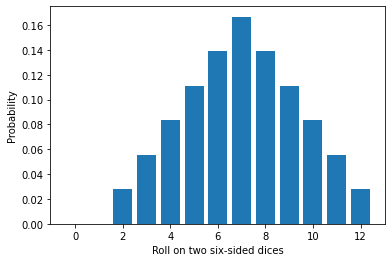
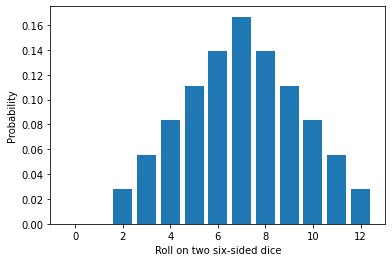
Update documentation

Changed region(s): [[0.398, 0.916, 0.7347, 0.9771]]

diff --git a/searchindex.js b/searchindex.js
@@ -1,1 +1,1 @@
-Search.setIndex({docnames:["README","chapters/bond_percolation","chapters/branching_process","chapters/index","chapters/multivariate_pgf","chapters/numerical_inversion","chapters/pgf_properties"],envversion:{"sphinx.domains.c":2,"sphinx.domains.changeset":1,"sphinx.domains.citation":1,"sphinx.domains.cpp":5,"sphinx.domains.index":1,"sphinx.domains.javascript":2,"sphinx.domains.math":2,"sphinx.domains.python":3,"sphinx.domains.rst":2,"sphinx.domains.std":2,"sphinx.ext.intersphinx":1,"sphinxcontrib.bibtex":9,sphinx:56},filenames:["README.md","chapters/bond_percolation.ipynb","chapters/branching_process.ipynb","chapters/index.md","chapters/multivariate_pgf.ipynb","chapters/numerical_inversion.ipynb","chapters/pgf_properties.ipynb"],objects:{},objnames:{},objtypes:{},terms:{"0":[2,4,5,6],"001":3,"08":3,"1":[2,4,5,6],"10":[2,3,5],"1000":2,"1016":3,"12":[4,5],"13":[4,5],"192":3,"1j":[2,4,5],"2":[2,4,5,6],"200":2,"2005":[3,6],"2018":3,"248":3,"2d":4,"3":[2,3,5,6],"368":5,"4":[2,6],"400":2,"5":[2,5,6],"5y":2,"6":[4,5,6],"7":[4,5],"8":[5,6],"9":5,"case":[2,4,5],"do":5,"float":5,"function":[0,2],"import":[2,4,5,6],"long":4,"new":[2,5],"true":5,"try":[2,3,4,6],"while":[2,4,5,6],A:[0,3],As:6,At:2,But:[5,6],By:[2,5],For:[2,5],If:5,In:[2,5,6],It:4,Of:2,One:[2,5],Such:6,The:[2,5,6],Then:6,These:2,To:[2,5,6],With:[2,6],_:[2,5,6],_n:5,ab:[2,4,5],about:[0,2,5],abov:5,accept:5,accord:2,ad:4,affect:5,again:[4,5],algorithm:6,alias:[4,5],align:[2,4,6],all:[2,4,5,6],allow:5,alpha:5,also:[2,6],alwai:2,an:[2,5,6],analyt:6,ani:[2,5],anoth:[2,5,6],answer:[2,6],append:2,appli:[4,5],applic:[0,5,6],approach:5,approx:5,approxim:[3,5],ar:[2,3,4,5,6],arang:[2,4,5],arbitrari:5,aris:3,around:[2,5],arrai:4,ask:2,assum:[2,4,6],asymptot:3,attach:6,averag:2,avoid:2,ax:5,bacteria:2,bar:5,base:3,becaus:6,becom:2,begin:[2,4,5,6],behavior:3,below:[2,5],better:2,birth:6,bivari:2,blue:[4,5],bond:3,book:[3,6],both:4,branch:[3,6],broader:2,brush:5,build:6,c1:4,c2:4,c:[2,3,5],c_:5,calcul:4,can:[2,3,4,5,6],cannot:5,care:[2,5],cauchi:5,caus:5,cdot:[2,4,6],certain:[2,6],chapter:[5,6],character:[2,3,4],characterist:5,child:2,choos:5,chosen:4,circ:2,circl:5,close:2,clotheslin:6,coeffici:5,collect:0,color:[2,5],colorbar:4,combin:3,combinatori:3,completli:6,complex:[3,5],complic:6,compos:5,composit:[2,6],comput:[2,5],computation:5,condit:2,consid:[2,4],consider:5,consist:2,construct:[4,5],contagion:3,contour:[4,5],contribut:5,conveni:6,copi:2,correspond:[2,5,6],costli:5,could:2,count:6,cours:2,crc:3,critic:3,cut:5,d:[5,6],dark:5,death:6,decreas:5,defin:[2,6],definit:[3,5],degre:5,descend:2,describ:[5,6],despit:4,dice:5,differ:2,dimens:4,directli:6,discret:[3,4,5,6],discuss:4,diseas:[2,3],displai:6,distribut:[2,3,4,5,6],divid:5,doe:5,doi:3,done:6,dot:[4,6],due:[2,5],dynam:6,e:[2,4,5,6],each:[2,6],effect:[4,5],els:2,encod:6,end:[2,4,5,6],enough:5,enumer:5,epidem:2,epidemiolog:6,equal:6,equat:2,equiv:[2,6],equival:2,error:5,estim:6,evalu:5,event:[2,6],evolut:6,exact:5,exactli:5,exampl:[2,5],exp:[2,4,5],expand:5,expans:5,explicit:6,exponenti:5,express:6,extract:[2,5],extrem:3,f:[5,6],fact:[2,4,6],factor:2,fair:4,fast:5,few:[3,5,6],fft2:4,fft:[2,4,5],field:3,fig:5,figsiz:5,find:[2,5,6],finit:[2,5],first:[5,6],fix:5,flexibl:3,follow:[2,5],forev:2,form:4,formula:[5,6],fortun:4,fourier:[4,5],fr:2,frac:[4,5,6],from:[2,4,5,6],g0:2,g:[4,5,6],g_0:2,g_1:6,g_2:6,g_:2,g_j:6,g_t:2,gener:0,generatingfunctionolog:3,genet:6,geq:5,get:[2,4],go:[2,4],goal:3,goe:2,good:5,green:5,grei:2,grow:2,h:6,ha:2,hand:3,hang:6,happen:[2,5,6],hat:5,have:[2,6],henc:6,herbert:[3,6],here:[2,3,5,6],highlight:6,how:[3,5],i:[2,4,5,6],ident:6,idm:3,iff:5,illustr:2,impact:4,impli:2,imposs:6,imshow:4,in_2:4,includ:3,increas:[2,5],inde:[2,3,4],indepd:2,independ:[2,4],indirectli:5,infecti:[2,3],infti:[2,4,5,6],initi:2,insid:5,instanc:[2,5,6],int_:5,integr:[4,5],integral:5,interest:[2,3,5,6],invers:3,invit:2,issu:[2,5],iter:2,its:[2,5,6],itself:2,j:[3,5,6],joel:3,joint:[2,4,6],jupyt:0,just:[2,6],k:2,k_1:4,k_2:4,k_3:4,kappa:5,know:[2,5],known:5,l:2,label:[2,4],lambda:[2,4,5],larg:[2,5],latter:6,lbrace:6,left:[4,5,6],legend:2,let:[2,4,5,6],limit:4,line:6,linspac:2,list:[2,3],llist:2,loggamma:5,lot:2,lower:4,ls:2,m:[4,5,6],m_1:4,m_2:4,m_:2,m_t:2,magnitud:5,mai:5,main:[2,3],mainli:6,mani:[3,5,6],mapsto:2,margin:2,mass:5,mathemat:[3,5],mathrm:5,matplotlib:[2,4,5],max:2,mean:[2,5],meshgrid:4,method:3,might:3,mil18:3,miller:3,mitig:5,model:[2,3,6],moment:3,monomi:6,more:[2,3,6],most:5,move:5,much:6,multipl:[4,5],multipli:[5,6],multivari:3,must:2,n1:4,n2:4,n:[2,4,5,6],n_0:2,n_1:[4,6],n_2:[4,6],n_:[2,5],n_m:[4,6],n_t:2,name:3,necessarili:4,need:[2,4,5],neg:6,network:3,next:[2,6],non:6,nonzero:5,note:5,notebook:0,now:[2,5,6],np:[2,4,5],number:[4,5],numer:[2,3,5],numpi:[2,4,5],o:5,object:3,observ:6,obtain:[3,5],obviou:5,off:5,offspr:2,often:[3,6],omega:5,omnipres:6,one:[2,4,5,6],ones_lik:2,onli:[2,5,6],orang:5,order:5,origin:[4,5],other:[2,5],our:[3,5],out:5,outbreak:2,outcom:6,over:[2,5],p:5,p_:[2,4,5,6],p_m:6,p_n:[5,6],paramat:2,parent:2,part:6,pattern:2,percol:3,perfectli:5,pext:2,pgf:[0,2,5,6],phase:3,phenomenon:5,pi:[2,4,5],pick:5,plai:4,plane:5,plot:2,plt:[2,4,5],pn1n2:4,pn:[2,5],pn_:5,pn_true:5,point:[3,5],poisson:[2,5],popul:[2,3,6],portion:5,possibl:6,power:5,press:3,previou:[2,5,6],previous:4,primer:3,probabl:0,process:[3,6],prod_:6,produc:2,product:6,properti:[2,3,4,6],provid:3,pyplot:[2,4,5],q:2,q_k:2,quantiti:2,question:[2,6],quit:6,r:[2,4,5],r_1:4,r_2:4,r_3:4,radii:4,radiu:5,random:[2,4,5],rang:[2,4,5],rbrace:6,real:[3,5],realiz:5,reason:5,recov:[2,4,5,6],recurs:2,red:4,reduc:5,relat:2,replac:2,repres:[2,4,5],represent:[5,6],reproduct:2,respect:6,result:[2,3,4,5,6],reus:2,revers:2,rewrit:5,right:[4,5,6],roll:5,s:[3,4,5,6],sake:5,same:2,save:2,scan:2,scenario:3,scienc:[3,6],scipi:5,second:[5,6],see:[2,4,6],self:2,sequenc:6,seri:5,set:3,set_xlabel:5,set_ylabel:5,sharei:5,should:4,show:[2,4,5,6],shown:5,side:[5,6],significantli:5,similar:2,similarli:[2,4],simpler:2,simpli:[2,6],simplic:5,sinc:[2,5],singl:[4,5,6],situat:2,six:[5,6],size:2,small:[4,5],smaller:[2,5],so:[2,4,5],solut:2,solv:[2,6],some:[2,5,6],sometim:[2,5,6],special:5,specifi:2,spread:2,start:[2,5],step:5,still:4,stochast:[2,6],straightforward:[5,6],strategi:5,studi:3,subject:2,subplot:5,subplots_adjust:5,substitut:2,suffici:5,sum:[2,4,5],sum_:[2,4,5,6],sum_k:2,surnam:2,systemat:5,t:2,tackl:3,tail:5,take:[2,6],techniqu:5,tempt:5,term:5,text:[2,5],th:5,than:[2,5,6],them:2,theoret:3,theori:3,therefor:[2,6],thi:[2,3,5,6],thing:6,three:4,throughout:6,time:2,togeth:5,too:[4,5],tool:3,top:4,total:2,transax:5,transform:[4,5],transit:3,tree:2,tset:2,tutori:[2,3,6],two:[4,5,6],type:2,u1:2,u2:2,u:2,underbrac:2,underli:[2,4,5],understand:[2,5],univari:4,until:2,up:[5,6],updat:2,us:[2,3,4,5,6],usign:5,usol:2,usual:5,valu:[2,5,6],vari:5,variabl:[2,4,5],variou:[2,3],vector:[4,5],veri:[2,5],verifi:5,version:4,visual:2,vline:2,wa:5,wai:[2,4],want:2,we:[2,3,4,5,6],well:6,were:2,what:[2,4,5,6],when:[2,3,5,6],whenev:6,where:[2,4,5,6],which:[2,3,5,6],why:6,wil05:3,wilf:[3,6],wise:4,word:6,work:6,world:3,would:[2,5],write:5,wspace:5,x1:4,x2:4,x:[2,4,5,6],x_1:4,x_1x_2:4,x_2:4,x_m:4,xlabel:[2,4,5],xy:2,y:2,ylabel:[2,4,5],zero:5},titles:["pgfunk","Bond percolation","Branching process","Probability generating functions for computational epidemiology","Multivariate probability generating functions","Inverting probability generating functions","Probability generating functions"],titleterms:{"101":3,"function":[3,4,5,6],"throw":4,A:6,applic:3,bond:1,branch:2,color:4,comput:3,content:3,cumul:2,dice:[4,6],differ:4,epidemiolog:3,exampl:6,extinct:2,gener:[2,3,4,5,6],given:2,independ:6,invers:4,invert:5,multivari:4,node:2,number:[2,6],numer:4,percol:1,pgf:[3,4],pgfunk:0,polynomi:5,probabl:[2,3,4,5,6],process:2,random:6,refer:3,roll:6,simpl:6,sum:6,tabl:3,variabl:6}})
+Search.setIndex({docnames:["README","chapters/branching_process","chapters/contagion_on_networks","chapters/index","chapters/multivariate_pgf","chapters/numerical_inversion","chapters/pgf_properties"],envversion:{"sphinx.domains.c":2,"sphinx.domains.changeset":1,"sphinx.domains.citation":1,"sphinx.domains.cpp":5,"sphinx.domains.index":1,"sphinx.domains.javascript":2,"sphinx.domains.math":2,"sphinx.domains.python":3,"sphinx.domains.rst":2,"sphinx.domains.std":2,"sphinx.ext.intersphinx":1,"sphinxcontrib.bibtex":9,sphinx:56},filenames:["README.md","chapters/branching_process.ipynb","chapters/contagion_on_networks.ipynb","chapters/index.md","chapters/multivariate_pgf.ipynb","chapters/numerical_inversion.ipynb","chapters/pgf_properties.ipynb"],objects:{},objnames:{},objtypes:{},terms:{"0":[1,4,5,6],"001":3,"08":3,"1":[1,4,5,6],"10":[1,3,5],"1000":1,"1016":3,"12":[4,5],"13":[4,5],"192":3,"1j":[1,4,5],"2":[1,4,5,6],"200":1,"2005":[3,6],"2018":3,"248":3,"2d":4,"3":[1,3,5,6],"368":5,"4":[1,6],"400":1,"5":[1,5,6],"5y":1,"6":[4,5,6],"7":[4,5],"8":[5,6],"9":5,"case":[1,4,5],"do":5,"float":5,"function":[0,1],"import":[1,4,5,6],"long":4,"new":[1,5],"true":5,"try":[1,3,4,6],"while":[1,4,5,6],A:[0,3],As:6,At:1,But:[5,6],By:[1,5],For:[1,5],If:5,In:[1,5,6],It:4,Of:1,One:[1,5],Such:6,The:[1,5,6],Then:6,These:1,To:[1,5,6],With:[1,6],_:[1,5,6],_n:5,ab:[1,4,5],about:[0,1,5],abov:5,accept:5,accord:1,ad:4,affect:5,again:[4,5],algorithm:6,alias:[4,5],align:[1,4,6],all:[1,4,5,6],allow:5,alpha:5,also:[1,6],alwai:1,an:[1,5,6],analyt:6,ani:[1,5],anoth:[1,5,6],answer:[1,6],append:1,appli:[4,5],applic:[0,5,6],approach:5,approx:5,approxim:[3,5],ar:[1,3,4,5,6],arang:[1,4,5],arbitrari:5,aris:3,around:[1,5],arrai:4,ask:1,assum:[1,4,6],asymptot:3,attach:6,averag:1,avoid:1,ax:5,bacteria:1,bar:5,base:3,becaus:6,becom:1,begin:[1,4,5,6],behavior:3,below:[1,5],better:1,birth:6,bivari:1,blue:[4,5],book:[3,6],both:4,branch:[3,6],broader:1,brush:5,build:6,c1:4,c2:4,c:[1,3,5],c_:5,calcul:4,can:[1,3,4,5,6],cannot:5,care:[1,5],cauchi:5,caus:5,cdot:[1,4,6],certain:[1,6],chapter:[5,6],character:[1,3,4],characterist:5,child:1,choos:5,chosen:4,circ:1,circl:5,close:1,clotheslin:6,coeffici:5,collect:0,color:[1,5],colorbar:4,combin:3,combinatori:3,completli:6,complex:[3,5],complic:6,compos:5,composit:[1,6],comput:[1,5],computation:5,condit:1,consid:[1,4],consider:5,consist:1,construct:[4,5],contagion:3,contour:[4,5],contribut:5,conveni:6,copi:1,correspond:[1,5,6],costli:5,could:1,count:6,cours:1,crc:3,critic:3,cut:5,d:[5,6],dark:5,death:6,decreas:5,defin:[1,6],definit:[3,5],degre:5,descend:1,describ:[5,6],despit:4,dice:5,die:[4,6],differ:1,dimens:4,directli:6,discret:[3,4,5,6],discuss:4,diseas:[1,3],displai:6,distribut:[1,3,4,5,6],divid:5,doe:5,doi:3,done:6,dot:[4,6],due:[1,5],dynam:6,e:[1,4,5,6],each:[1,6],effect:[4,5],els:1,encod:6,end:[1,4,5,6],enough:5,enumer:5,epidem:1,epidemiolog:6,equal:6,equat:1,equiv:[1,6],equival:1,error:5,estim:6,evalu:5,event:[1,6],evolut:6,exact:5,exactli:5,exampl:[1,5],exp:[1,4,5],expand:5,expans:5,explicit:6,exponenti:5,express:6,extract:[1,5],extrem:3,f:[5,6],fact:[1,4,6],factor:1,fair:4,fast:5,few:[3,5,6],fft2:4,fft:[1,4,5],field:3,fig:5,figsiz:5,find:[1,5,6],finit:[1,5],first:[5,6],fix:5,flexibl:3,follow:[1,5],forev:1,form:4,formula:[5,6],fortun:4,fourier:[4,5],fr:1,frac:[4,5,6],from:[1,4,5,6],g0:1,g:[4,5,6],g_0:1,g_1:6,g_2:6,g_:1,g_j:6,g_t:1,gener:0,generatingfunctionolog:3,genet:6,geq:5,get:[1,4],go:[1,4],goal:3,goe:1,good:5,green:5,grei:1,grow:1,h:6,ha:1,hand:3,hang:6,happen:[1,5,6],hat:5,have:[1,6],henc:6,herbert:[3,6],here:[1,3,5,6],highlight:6,how:[3,5],i:[1,4,5,6],ident:6,idm:3,iff:5,illustr:1,impact:4,impli:1,imposs:6,imshow:4,in_2:4,includ:3,increas:[1,5],inde:[1,3,4],indepd:1,independ:[1,4],indirectli:5,infecti:[1,3],infti:[1,4,5,6],initi:1,insid:5,instanc:[1,5,6],int_:5,integr:[4,5],integral:5,interest:[1,3,5,6],invers:3,invit:1,issu:[1,5],iter:1,its:[1,5,6],itself:1,j:[3,5,6],joel:3,joint:[1,4,6],jupyt:0,just:[1,6],k:1,k_1:4,k_2:4,k_3:4,kappa:5,know:[1,5],known:5,l:1,label:[1,4],lambda:[1,4,5],larg:[1,5],latter:6,lbrace:6,left:[4,5,6],legend:1,let:[1,4,5,6],limit:4,line:6,linspac:1,list:[1,3],llist:1,loggamma:5,lot:1,lower:4,ls:1,m:[4,5,6],m_1:4,m_2:4,m_:1,m_t:1,magnitud:5,mai:5,main:[1,3],mainli:6,mani:[3,5,6],mapsto:1,margin:1,mass:5,mathemat:[3,5],mathrm:5,matplotlib:[1,4,5],max:1,mean:[1,5],meshgrid:4,method:3,might:3,mil18:3,miller:3,mitig:5,model:[1,3,6],moment:3,monomi:6,more:[1,3,6],most:5,move:5,much:6,multipl:[4,5,6],multipli:[5,6],multivari:3,must:1,n1:4,n2:4,n:[1,4,5,6],n_0:1,n_1:[4,6],n_2:[4,6],n_:[1,5],n_m:[4,6],n_t:1,name:3,necessarili:4,need:[1,4,5],neg:6,network:3,next:[1,6],non:6,nonzero:5,note:5,notebook:0,now:[1,5,6],np:[1,4,5],number:[4,5],numer:[1,3,5],numpi:[1,4,5],o:5,object:3,observ:6,obtain:[3,5],obviou:5,off:5,offspr:1,often:[3,6],omega:5,omnipres:6,one:[1,4,5],ones_lik:1,onli:[1,5,6],orang:5,order:5,origin:[4,5],other:[1,5],our:[3,5],out:5,outbreak:1,outcom:6,over:[1,5],p:5,p_:[1,4,5,6],p_m:6,p_n:[5,6],paramat:1,parent:1,part:6,pattern:1,perfectli:5,pext:1,pgf:[0,1,5,6],phase:3,phenomenon:5,pi:[1,4,5],pick:5,plai:4,plane:5,plot:1,plt:[1,4,5],pn1n2:4,pn:[1,5],pn_:5,pn_true:5,point:[3,5],poisson:[1,5],popul:[1,3,6],portion:5,possibl:6,power:5,press:3,previou:[1,5,6],previous:4,primer:3,probabl:0,process:[3,6],prod_:6,produc:1,product:6,properti:[1,3,4,6],provid:3,pyplot:[1,4,5],q:1,q_k:1,quantiti:1,question:[1,6],quit:6,r:[1,4,5],r_1:4,r_2:4,r_3:4,radii:4,radiu:5,random:[1,4,5],rang:[1,4,5],rbrace:6,real:[3,5],realiz:5,reason:5,recov:[1,4,5,6],recurs:1,red:4,reduc:5,relat:1,replac:1,repres:[1,4,5],represent:[5,6],reproduct:1,respect:6,result:[1,3,4,5,6],reus:1,revers:1,rewrit:5,right:[4,5,6],roll:5,s:[3,4,5,6],sake:5,same:1,save:1,scan:1,scenario:3,scienc:[3,6],scipi:5,second:[5,6],see:[1,4,6],self:1,sequenc:6,seri:5,set:3,set_xlabel:5,set_ylabel:5,sharei:5,should:4,show:[1,4,5,6],shown:5,side:[5,6],significantli:5,similar:1,similarli:[1,4],simpler:1,simpli:[1,6],simplic:5,sinc:[1,5],singl:[4,5,6],situat:1,six:[5,6],size:1,small:[4,5],smaller:[1,5],so:[1,4,5],solut:1,solv:[1,6],some:[1,5,6],sometim:[1,5,6],special:5,specifi:1,spread:1,start:[1,5],step:5,still:4,stochast:[1,6],straightforward:[5,6],strategi:5,studi:3,subject:1,subplot:5,subplots_adjust:5,substitut:1,suffici:5,sum:[1,4,5],sum_:[1,4,5,6],sum_k:1,surnam:1,systemat:5,t:1,tackl:3,tail:5,take:[1,6],techniqu:5,tempt:5,term:5,text:[1,5],th:5,than:[1,5],them:1,theoret:3,theori:3,therefor:[1,6],thi:[1,3,5,6],thing:6,three:4,throughout:6,time:1,togeth:5,too:[4,5],tool:3,top:4,total:1,transax:5,transform:[4,5],transit:3,tree:1,tset:1,tutori:[1,3,6],two:[4,5,6],type:1,u1:1,u2:1,u:1,underbrac:1,underli:[1,4,5],understand:[1,5],univari:4,until:1,up:[5,6],updat:1,us:[1,3,4,5,6],usign:5,usol:1,usual:5,valu:[1,5,6],vari:5,variabl:[1,4,5],variou:[1,3],vector:[4,5],veri:[1,5],verifi:5,version:4,visual:1,vline:1,wa:5,wai:[1,4],want:1,we:[1,3,4,5,6],well:6,were:1,what:[1,4,5,6],when:[1,3,5,6],whenev:6,where:[1,4,5,6],which:[1,3,5,6],why:6,wil05:3,wilf:[3,6],wise:4,word:6,work:6,world:3,would:[1,5],write:5,wspace:5,x1:4,x2:4,x:[1,4,5,6],x_1:4,x_1x_2:4,x_2:4,x_m:4,xlabel:[1,4,5],xy:1,y:1,ylabel:[1,4,5],zero:5},titles:["pgfunk","Branching process","Contagion on networks","Probability generating functions for computational epidemiology","Multivariate probability generating functions","Inverting probability generating functions","Probability generating functions"],titleterms:{"101":3,"function":[3,4,5,6],"throw":4,A:6,applic:3,branch:1,color:4,comput:3,contagion:2,content:3,cumul:1,dice:[4,6],differ:4,epidemiolog:3,exampl:6,extinct:1,gener:[1,3,4,5,6],given:1,independ:6,invers:4,invert:5,multivari:4,network:2,node:1,number:[1,6],numer:4,pgf:[3,4],pgfunk:0,polynomi:5,probabl:[1,3,4,5,6],process:1,random:6,refer:3,roll:6,simpl:6,sum:6,tabl:3,variabl:6}})

diff --git a/chapters/numerical_inversion.html b/chapters/numerical_inversion.html
@@ -141,8 +141,8 @@ const thebe_selector_output = ".output, .cell_output"
   </a>
  </li>
  <li class="toctree-l1">
-  <a class="reference internal" href="bond_percolation.html">
-   Bond percolation
+  <a class="reference internal" href="contagion_on_networks.html">
+   Contagion on networks
   </a>
  </li>
 </ul>
@@ -358,7 +358,7 @@ title="Print to PDF"
   <section class="tex2jax_ignore mathjax_ignore" id="inverting-probability-generating-functions">
 <h1>Inverting probability generating functions<a class="headerlink" href="#inverting-probability-generating-functions" title="Permalink to this headline">#</a></h1>
 <p>In most cases of interest, the PGF <span class="math notranslate nohighlight">\(G(x)\)</span> is known <em>indirectly</em>, i.e., we know how to compute its value for any <span class="math notranslate nohighlight">\(x\)</span>, but we do not know the underlying coefficients.
-For instance, the PGF for the result of a roll of two six-sided dices is <span class="math notranslate nohighlight">\(G(x) = g(x)^2\)</span>, where</p>
+For instance, the PGF for the result of a roll of two six-sided dice is <span class="math notranslate nohighlight">\(G(x) = g(x)^2\)</span>, where</p>
 <div class="math notranslate nohighlight">
 \[
 g(x) = \sum_{n = 1}^6 \frac{1}{6} x^n
@@ -389,7 +389,7 @@ p_n = \frac{1}{2\pi r^n}\int_{0}^{2\pi} G\left ( r e^{ i \omega} \right) e^{- i 
 p_n = \frac{1}{N r^n} \sum_{m = 0}^{N-1} G(r e^{2 \pi i m /N}) e^{2 \pi i n m /N} \;.
 \]</div>
 <p>Again, one can verify that this is true by expanding <span class="math notranslate nohighlight">\(G(e^{2\pi i m /N})\)</span> into a power series and noting that only the <span class="math notranslate nohighlight">\(n\)</span>-th degree term is nonzero.
-Let us apply this technique to recover the distribution for the roll of two six-sided dices.
+Let us apply this technique to recover the distribution for the roll of two six-sided dice.
 For the sake of simplicity, let us use <span class="math notranslate nohighlight">\(r = 1\)</span> for now.</p>
 <div class="admonition note">
 <p class="admonition-title">Note</p>
@@ -409,7 +409,7 @@ For the sake of simplicity, let us use <span class="math notranslate nohighlight
 <span class="n">pn</span> <span class="o">=</span> <span class="nb">abs</span><span class="p">(</span><span class="n">np</span><span class="o">.</span><span class="n">fft</span><span class="o">.</span><span class="n">fft</span><span class="p">(</span><span class="n">G</span><span class="p">(</span><span class="n">c</span><span class="p">))</span><span class="o">/</span><span class="n">N</span><span class="p">)</span>
 <span class="n">plt</span><span class="o">.</span><span class="n">bar</span><span class="p">(</span><span class="n">n</span><span class="p">,</span><span class="n">pn</span><span class="p">)</span>
 <span class="n">plt</span><span class="o">.</span><span class="n">ylabel</span><span class="p">(</span><span class="s1">&#39;Probability&#39;</span><span class="p">)</span>
-<span class="n">plt</span><span class="o">.</span><span class="n">xlabel</span><span class="p">(</span><span class="s1">&#39;Roll on two six-sided dices&#39;</span><span class="p">)</span>
+<span class="n">plt</span><span class="o">.</span><span class="n">xlabel</span><span class="p">(</span><span class="s1">&#39;Roll on two six-sided dice&#39;</span><span class="p">)</span>
 <span class="n">plt</span><span class="o">.</span><span class="n">show</span><span class="p">()</span>
 </pre></div>
 </div>
@@ -433,7 +433,7 @@ To find out, let us use <span class="math notranslate nohighlight">\(N = 10\)</s
 <span class="n">plt</span><span class="o">.</span><span class="n">bar</span><span class="p">(</span><span class="n">n</span><span class="p">,</span><span class="n">pn</span><span class="p">)</span>
 <span class="n">plt</span><span class="o">.</span><span class="n">bar</span><span class="p">(</span><span class="n">n_</span><span class="p">,</span><span class="n">pn_</span><span class="p">,</span> <span class="n">alpha</span> <span class="o">=</span> <span class="mf">0.3</span><span class="p">,</span> <span class="n">color</span><span class="o">=</span><span class="s1">&#39;orange&#39;</span><span class="p">)</span>
 <span class="n">plt</span><span class="o">.</span><span class="n">ylabel</span><span class="p">(</span><span class="s1">&#39;Probability&#39;</span><span class="p">)</span>
-<span class="n">plt</span><span class="o">.</span><span class="n">xlabel</span><span class="p">(</span><span class="s1">&#39;Roll on two six-sided dices&#39;</span><span class="p">)</span>
+<span class="n">plt</span><span class="o">.</span><span class="n">xlabel</span><span class="p">(</span><span class="s1">&#39;Roll on two six-sided dice&#39;</span><span class="p">)</span>
 <span class="n">plt</span><span class="o">.</span><span class="n">show</span><span class="p">()</span>
 </pre></div>
 </div>
@@ -459,7 +459,7 @@ In this case, we can use a value <span class="math notranslate nohighlight">\(0 
 <span class="n">plt</span><span class="o">.</span><span class="n">bar</span><span class="p">(</span><span class="n">n</span><span class="p">,</span><span class="n">pn</span><span class="p">)</span>
 <span class="n">plt</span><span class="o">.</span><span class="n">bar</span><span class="p">(</span><span class="n">n_</span><span class="p">,</span><span class="n">pn_</span><span class="p">,</span> <span class="n">alpha</span> <span class="o">=</span> <span class="mf">0.3</span><span class="p">,</span> <span class="n">color</span><span class="o">=</span><span class="s1">&#39;orange&#39;</span><span class="p">)</span>
 <span class="n">plt</span><span class="o">.</span><span class="n">ylabel</span><span class="p">(</span><span class="s1">&#39;Probability&#39;</span><span class="p">)</span>
-<span class="n">plt</span><span class="o">.</span><span class="n">xlabel</span><span class="p">(</span><span class="s1">&#39;Roll on two six-sided dices&#39;</span><span class="p">)</span>
+<span class="n">plt</span><span class="o">.</span><span class="n">xlabel</span><span class="p">(</span><span class="s1">&#39;Roll on two six-sided dice&#39;</span><span class="p">)</span>
 <span class="n">plt</span><span class="o">.</span><span class="n">show</span><span class="p">()</span>
 </pre></div>
 </div>

diff --git a/chapters/multivariate_pgf.html b/chapters/multivariate_pgf.html
@@ -141,8 +141,8 @@ const thebe_selector_output = ".output, .cell_output"
   </a>
  </li>
  <li class="toctree-l1">
-  <a class="reference internal" href="bond_percolation.html">
-   Bond percolation
+  <a class="reference internal" href="contagion_on_networks.html">
+   Contagion on networks
   </a>
  </li>
 </ul>
@@ -307,8 +307,8 @@ title="Print to PDF"
     <nav id="bd-toc-nav" aria-label="Page">
         <ul class="visible nav section-nav flex-column">
  <li class="toc-h2 nav-item toc-entry">
-  <a class="reference internal nav-link" href="#throwing-dices-of-different-colors">
-   Throwing dices of different colors
+  <a class="reference internal nav-link" href="#throwing-dice-of-different-colors">
+   Throwing dice of different colors
   </a>
  </li>
  <li class="toc-h2 nav-item toc-entry">
@@ -336,8 +336,8 @@ title="Print to PDF"
                         <nav aria-label="Page">
                             <ul class="visible nav section-nav flex-column">
  <li class="toc-h2 nav-item toc-entry">
-  <a class="reference internal nav-link" href="#throwing-dices-of-different-colors">
-   Throwing dices of different colors
+  <a class="reference internal nav-link" href="#throwing-dice-of-different-colors">
+   Throwing dice of different colors
   </a>
  </li>
  <li class="toc-h2 nav-item toc-entry">
@@ -366,16 +366,16 @@ G(x_1,x_2,\dots,x_m) = \sum_{n_1 = 0}^\infty \cdots \sum_{n_m = 0}^\infty p_{n_1
 \]</div>
 <p>where <span class="math notranslate nohighlight">\(p_{n_1,n_2,\dots,n_m}\)</span> is the joint probability distribution.</p>
 <p>Fortunately, all the properties we discussed previously and the numerical inversion can still be applied.</p>
-<section id="throwing-dices-of-different-colors">
-<h2>Throwing dices of different colors<a class="headerlink" href="#throwing-dices-of-different-colors" title="Permalink to this headline">#</a></h2>
-<p>Let’s assume we throw three fair dices. Two of the three dices are blue and one is red. We calculate two sums (<span class="math notranslate nohighlight">\(n_1\)</span> and <span class="math notranslate nohighlight">\(n_2\)</span>) by adding the number on top of the blue dice with the two number on top of the red dices independently. What is the PGF for <span class="math notranslate nohighlight">\(p_{n_1,n_2}\)</span>? It is</p>
+<section id="throwing-dice-of-different-colors">
+<h2>Throwing dice of different colors<a class="headerlink" href="#throwing-dice-of-different-colors" title="Permalink to this headline">#</a></h2>
+<p>Let’s assume we throw three fair dice. Two of the three are blue and one is red. We calculate two sums (<span class="math notranslate nohighlight">\(n_1\)</span> and <span class="math notranslate nohighlight">\(n_2\)</span>) by adding the number on top of the blue die with the two number on top of the red dice independently. What is the PGF for <span class="math notranslate nohighlight">\(p_{n_1,n_2}\)</span>? It is</p>
 <div class="math notranslate nohighlight">
 \[
 \begin{align}
 G(x_1,x_2) = g(x_1) g(x_2)g(x_1x_2) \;.
 \end{align}
 \]</div>
-<p>Indeed, if <span class="math notranslate nohighlight">\(k_1\)</span> and <span class="math notranslate nohighlight">\(k_2\)</span> are the number on top of the red dices, and <span class="math notranslate nohighlight">\(k_3\)</span> is the result on top of the blue dice,</p>
+<p>Indeed, if <span class="math notranslate nohighlight">\(k_1\)</span> and <span class="math notranslate nohighlight">\(k_2\)</span> are the number on top of the red dice, and <span class="math notranslate nohighlight">\(k_3\)</span> is the result on top of the blue die,</p>
 <div class="math notranslate nohighlight">
 \[\begin{split}
 \begin{align}

diff --git a/chapters/pgf_properties.html b/chapters/pgf_properties.html
@@ -141,8 +141,8 @@ const thebe_selector_output = ".output, .cell_output"
   </a>
  </li>
  <li class="toctree-l1">
-  <a class="reference internal" href="bond_percolation.html">
-   Bond percolation
+  <a class="reference internal" href="contagion_on_networks.html">
+   Contagion on networks
   </a>
  </li>
 </ul>
@@ -307,8 +307,8 @@ title="Print to PDF"
     <nav id="bd-toc-nav" aria-label="Page">
         <ul class="visible nav section-nav flex-column">
  <li class="toc-h2 nav-item toc-entry">
-  <a class="reference internal nav-link" href="#a-simple-example-rolling-dices">
-   A simple example: Rolling dices
+  <a class="reference internal nav-link" href="#a-simple-example-rolling-dice">
+   A simple example: Rolling dice
   </a>
  </li>
  <li class="toc-h2 nav-item toc-entry">
@@ -341,8 +341,8 @@ title="Print to PDF"
                         <nav aria-label="Page">
                             <ul class="visible nav section-nav flex-column">
  <li class="toc-h2 nav-item toc-entry">
-  <a class="reference internal nav-link" href="#a-simple-example-rolling-dices">
-   A simple example: Rolling dices
+  <a class="reference internal nav-link" href="#a-simple-example-rolling-dice">
+   A simple example: Rolling dice
   </a>
  </li>
  <li class="toc-h2 nav-item toc-entry">
@@ -380,16 +380,16 @@ G(x) = \sum_{n = 0}^\infty p_n x^n \;.
 <p>As we show in the next chapter, it is straightforward to recover the probability distribution from its PGF.
 But why work with the latter?
 Mainly because for certain applications, it is possible to find an analytical expression for the PGF, or define an algorithm solving it, while it is much more complicated (or impossible) to have an explicit formula (or an algorithm) for the probability distribution directly.</p>
-<section id="a-simple-example-rolling-dices">
-<h2>A simple example: Rolling dices<a class="headerlink" href="#a-simple-example-rolling-dices" title="Permalink to this headline">#</a></h2>
-<p>Throughout this first part of the book, we will often use this simple example—rolling a certain number of six-sided dices, then try to estimate the probability of some event.
-With a single dice for instance, the possible outcomes are quite simple: <span class="math notranslate nohighlight">\(n \in \lbrace 1, 2, 3, 4, 5, 6 \rbrace\)</span>, all with equal probability <span class="math notranslate nohighlight">\(p_n = 1/6\)</span>.
+<section id="a-simple-example-rolling-dice">
+<h2>A simple example: Rolling dice<a class="headerlink" href="#a-simple-example-rolling-dice" title="Permalink to this headline">#</a></h2>
+<p>Throughout this first part of the book, we will often use this simple example—rolling a certain number of six-sided dice, then try to estimate the probability of some event.
+With a single die for instance, the possible outcomes are quite simple: <span class="math notranslate nohighlight">\(n \in \lbrace 1, 2, 3, 4, 5, 6 \rbrace\)</span>, all with equal probability <span class="math notranslate nohighlight">\(p_n = 1/6\)</span>.
 The corresponding PGF is simply</p>
 <div class="math notranslate nohighlight">
 \[
 g(x) = \frac{1}{6}(x + x^2 + x^3 + x^4 + x^5 + x^6) = \sum_{n=1}^6 \frac{1}{6} x^n \;.
 \]</div>
-<p>But now what happens when we use more than one dice?
+<p>But now what happens when we use more multiple dice?
 What is now the probability to observe a certain result, such as <span class="math notranslate nohighlight">\(n = 8\)</span>?
 To answer these questions, let us highlight some important properties of PGFs.</p>
 </section>

diff --git a/chapters/contagion_on_networks.html b/chapters/contagion_on_networks.html
@@ -6,7 +6,7 @@
     <meta charset="utf-8" />
     <meta name="viewport" content="width=device-width, initial-scale=1.0" /><meta name="generator" content="Docutils 0.17.1: http://docutils.sourceforge.net/" />
 
-    <title>Bond percolation &#8212; PGFunk</title>
+    <title>Contagion on networks &#8212; PGFunk</title>
     
   <!-- Loaded before other Sphinx assets -->
   <link href="../_static/styles/theme.css?digest=1999514e3f237ded88cf" rel="stylesheet">
@@ -139,7 +139,7 @@ const thebe_selector_output = ".output, .cell_output"
  </li>
  <li class="toctree-l1 current active">
   <a class="current reference internal" href="#">
-   Bond percolation
+   Contagion on networks
   </a>
  </li>
 </ul>
@@ -201,7 +201,7 @@ title="Toggle navigation"
   <div class="menu-dropdown__content">
     <ul>
       <li>
-        <a href="https://mybinder.org/v2/gh/executablebooks/jupyter-book/master?urlpath=tree/chapters/bond_percolation.ipynb"
+        <a href="https://mybinder.org/v2/gh/executablebooks/jupyter-book/master?urlpath=tree/chapters/contagion_on_networks.ipynb"
    class="headerbtn"
    data-toggle="tooltip"
 data-placement="left"
@@ -244,7 +244,7 @@ title="Fullscreen mode"
   <div class="menu-dropdown__content">
     <ul>
       <li>
-        <a href="../_sources/chapters/bond_percolation.ipynb"
+        <a href="../_sources/chapters/contagion_on_networks.ipynb"
    class="headerbtn"
    data-toggle="tooltip"
 data-placement="left"
@@ -293,7 +293,7 @@ title="Print to PDF"
         <div class="col pl-md-3 pl-lg-5 content-container">
             <!-- Table of contents that is only displayed when printing the page -->
             <div id="jb-print-docs-body" class="onlyprint">
-                <h1>Bond percolation</h1>
+                <h1>Contagion on networks</h1>
                 <!-- Table of contents -->
                 <div id="print-main-content">
                     <div id="jb-print-toc">
@@ -305,8 +305,8 @@ title="Print to PDF"
                 
               <div>
                 
-  <section class="tex2jax_ignore mathjax_ignore" id="bond-percolation">
-<h1>Bond percolation<a class="headerlink" href="#bond-percolation" title="Permalink to this headline">#</a></h1>
+  <section class="tex2jax_ignore mathjax_ignore" id="contagion-on-networks">
+<h1>Contagion on networks<a class="headerlink" href="#contagion-on-networks" title="Permalink to this headline">#</a></h1>
 </section>
 
     <script type="text/x-thebe-config">

diff --git a/chapters/index.html b/chapters/index.html
@@ -138,8 +138,8 @@ const thebe_selector_output = ".output, .cell_output"
   </a>
  </li>
  <li class="toctree-l1">
-  <a class="reference internal" href="bond_percolation.html">
-   Bond percolation
+  <a class="reference internal" href="contagion_on_networks.html">
+   Contagion on networks
   </a>
  </li>
 </ul>
@@ -339,8 +339,8 @@ processes.</p>
 </ul>
 <p>Many theoretical results can be obtained using probability generating functions—critical points of
 phase transition, asymptotic behavior of functions, and the moments of distributions of
-interest to name a few.
-Here, our main goal is to provide a hands-on tutorial on <em>computational</em> methods based on probability generating functions. Indeed, numerical approximations are often more flexible when trying to to tackle real world scenarios.
+interest to name a few.</p>
+<p>Here, our main goal is to provide a hands-on tutorial on <em>computational</em> methods based on probability generating functions. Indeed, numerical approximations are often more flexible when trying to to tackle real world scenarios.
 Our main applications will be in epidemiology, on how to characterize contagion on networks or in complex population by this set of tools.</p>
 <section id="table-of-content">
 <h2>Table of content<a class="headerlink" href="#table-of-content" title="Permalink to this headline">#</a></h2>
@@ -356,7 +356,7 @@ Our main applications will be in epidemiology, on how to characterize contagion 
 <p aria-level="2" class="caption" role="heading"><span class="caption-text">Applications</span></p>
 <ul>
 <li class="toctree-l1"><a class="reference internal" href="branching_process.html">Branching process</a></li>
-<li class="toctree-l1"><a class="reference internal" href="bond_percolation.html">Bond percolation</a></li>
+<li class="toctree-l1"><a class="reference internal" href="contagion_on_networks.html">Contagion on networks</a></li>
 </ul>
 </div>
 </section>

diff --git a/chapters/branching_process.html b/chapters/branching_process.html
@@ -54,7 +54,7 @@ const thebe_selector_output = ".output, .cell_output"
     <script defer="defer" src="https://cdn.jsdelivr.net/npm/mathjax@3/es5/tex-mml-chtml.js"></script>
     <link rel="index" title="Index" href="../genindex.html" />
     <link rel="search" title="Search" href="../search.html" />
-    <link rel="next" title="Bond percolation" href="bond_percolation.html" />
+    <link rel="next" title="Contagion on networks" href="contagion_on_networks.html" />
     <link rel="prev" title="Multivariate probability generating functions" href="multivariate_pgf.html" />
     <meta name="viewport" content="width=device-width, initial-scale=1" />
     <meta name="docsearch:language" content="None">
@@ -141,8 +141,8 @@ const thebe_selector_output = ".output, .cell_output"
   </a>
  </li>
  <li class="toctree-l1">
-  <a class="reference internal" href="bond_percolation.html">
-   Bond percolation
+  <a class="reference internal" href="contagion_on_networks.html">
+   Contagion on networks
   </a>
  </li>
 </ul>
@@ -563,10 +563,10 @@ The probability of extinction is then simply the probability that all initial no
             <p class="prev-next-title">Multivariate probability generating functions</p>
         </div>
     </a>
-    <a class='right-next' id="next-link" href="bond_percolation.html" title="next page">
+    <a class='right-next' id="next-link" href="contagion_on_networks.html" title="next page">
     <div class="prev-next-info">
         <p class="prev-next-subtitle">next</p>
-        <p class="prev-next-title">Bond percolation</p>
+        <p class="prev-next-title">Contagion on networks</p>
     </div>
     <i class="fas fa-angle-right"></i>
     </a>

diff --git a/README.html b/README.html
@@ -137,8 +137,8 @@ const thebe_selector_output = ".output, .cell_output"
   </a>
  </li>
  <li class="toctree-l1">
-  <a class="reference internal" href="chapters/bond_percolation.html">
-   Bond percolation
+  <a class="reference internal" href="chapters/contagion_on_networks.html">
+   Contagion on networks
   </a>
  </li>
 </ul>

diff --git a/genindex.html b/genindex.html
@@ -136,8 +136,8 @@ const thebe_selector_output = ".output, .cell_output"
   </a>
  </li>
  <li class="toctree-l1">
-  <a class="reference internal" href="chapters/bond_percolation.html">
-   Bond percolation
+  <a class="reference internal" href="chapters/contagion_on_networks.html">
+   Contagion on networks
   </a>
  </li>
 </ul>

diff --git a/search.html b/search.html
@@ -142,8 +142,8 @@ const thebe_selector_output = ".output, .cell_output"
   </a>
  </li>
  <li class="toctree-l1">
-  <a class="reference internal" href="chapters/bond_percolation.html">
-   Bond percolation
+  <a class="reference internal" href="chapters/contagion_on_networks.html">
+   Contagion on networks
   </a>
  </li>
 </ul>

diff --git a/_sources/chapters/index.md b/_sources/chapters/index.md
@@ -11,6 +11,7 @@ Here we a list a few references that might be of interest in combination with th
 Many theoretical results can be obtained using probability generating functions---critical points of
 phase transition, asymptotic behavior of functions, and the moments of distributions of
 interest to name a few.
+
 Here, our main goal is to provide a hands-on tutorial on *computational* methods based on probability generating functions. Indeed, numerical approximations are often more flexible when trying to to tackle real world scenarios.
 Our main applications will be in epidemiology, on how to characterize contagion on networks or in complex population by this set of tools.
 
